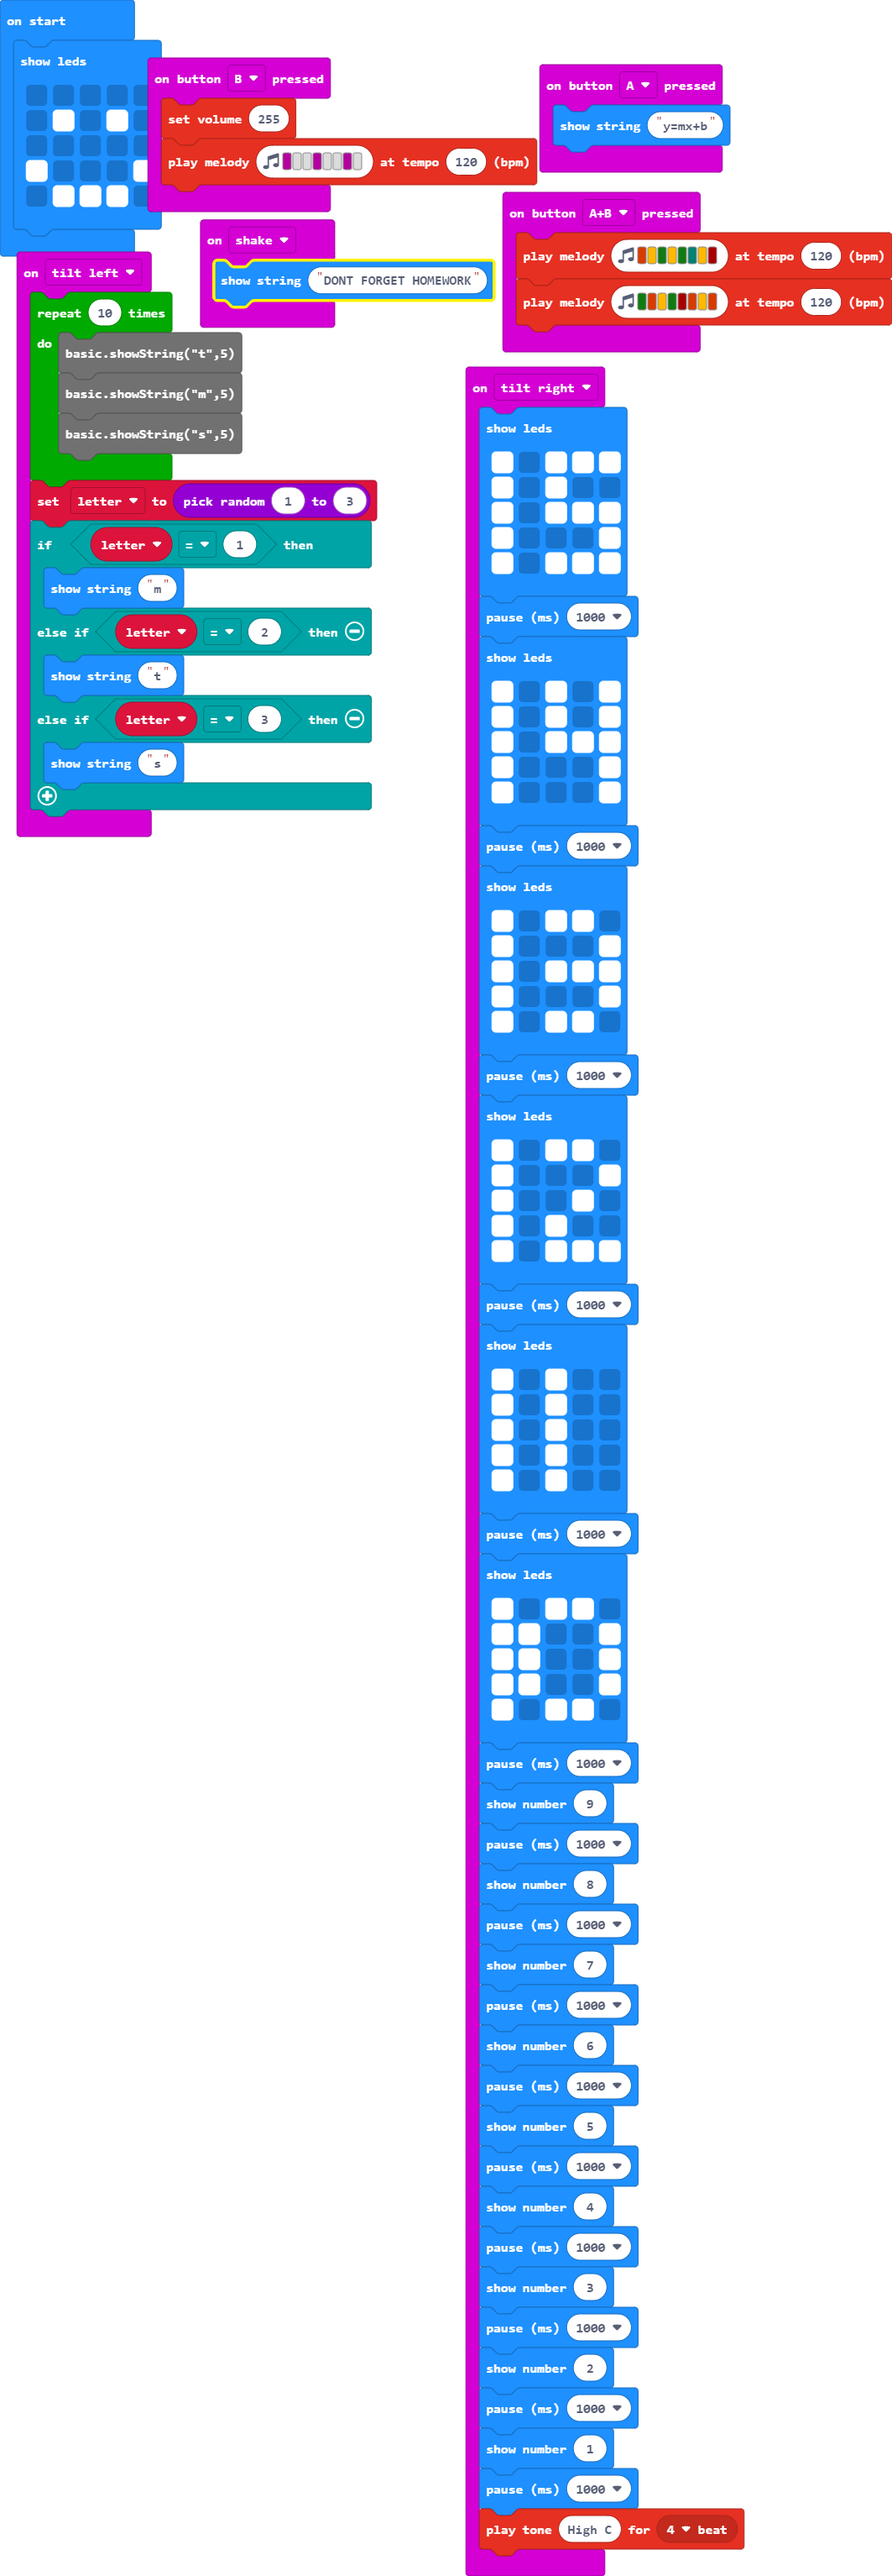
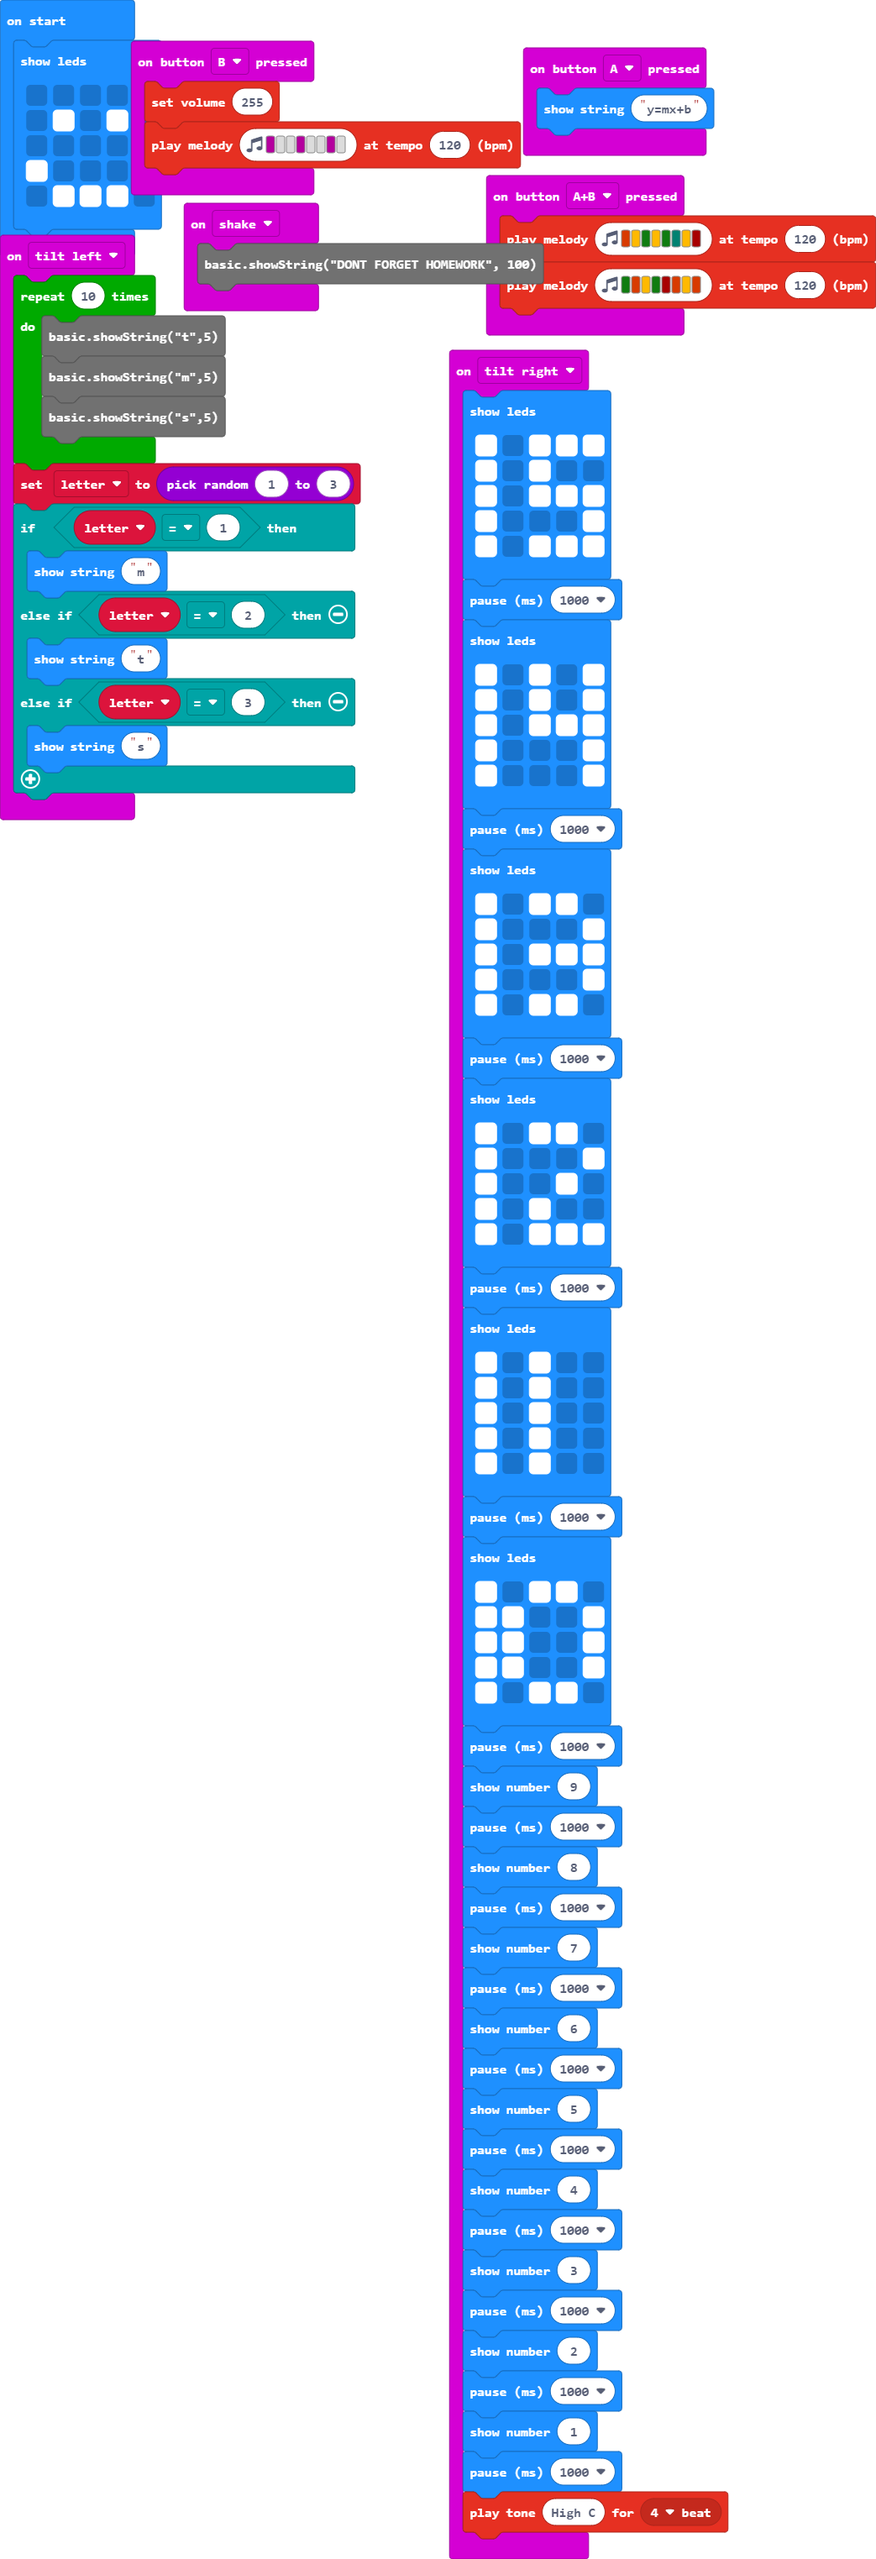
Update main.blocks, main.ts

Changed region(s): [[0.0, 0.0, 1.0, 1.0], [0.7977, 0.9665, 0.8284, 0.9977]]

diff --git a/main.ts b/main.ts
@@ -25,7 +25,7 @@ input.onButtonPressed(Button.B, function () {
     music.playMelody("C - - C - - C - ", 120)
 })
 input.onGesture(Gesture.Shake, function () {
-    basic.showString("DONT FORGET HOMEWORK")
+    basic.showString("DONT FORGET HOMEWORK", 100)
 })
 input.onGesture(Gesture.TiltRight, function () {
     basic.showLeds(`
